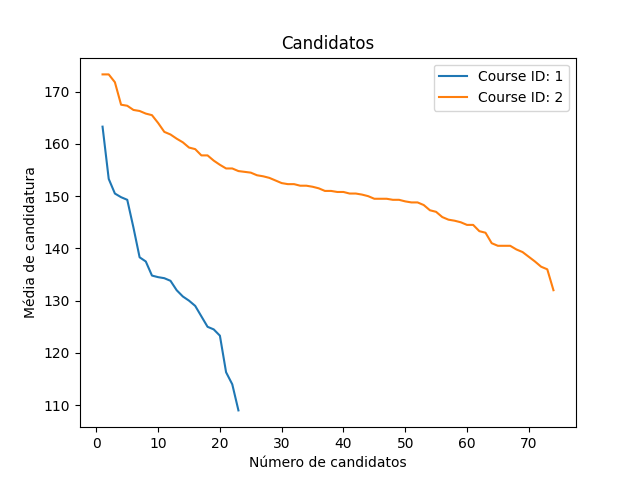
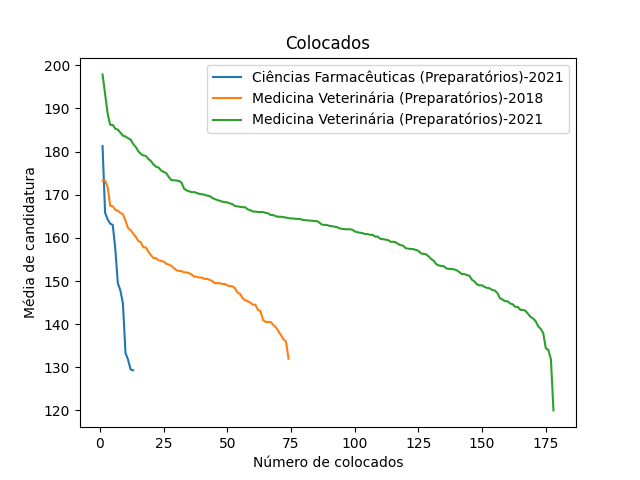
Fim

diff --git a/static/home.css b/static/home.css
@@ -1,0 +1,56 @@
+/* Apply some basic styling to the body */
+body {
+    font-family: Arial, sans-serif;
+    margin: 0;
+    padding: 20px;
+    background-color: #f0f0f0;
+  }
+  
+  /* Style the buttons */
+  button {
+    background-color: #4CAF50; /* Green */
+    border: none;
+    color: white;
+    padding: 10px 20px;
+    text-align: center;
+    text-decoration: none;
+    display: inline-block;
+    font-size: 16px;
+    margin: 10px;
+    cursor: pointer;
+    transition-duration: 0.4s;
+    border-radius: 5px;
+  }
+  
+  /* Change the background color and cursor on hover */
+  button:hover {
+    background-color: #45a049; /* Darker green */
+    cursor: pointer;
+  }
+  
+  /* Apply some basic styling to the links within the buttons */
+  button a {
+    color: white;
+    text-decoration: none;
+  }
+  
+  /* Adjust the layout of the buttons */
+  #button1 {
+    margin-right: 20px;
+  }
+  
+  /* Center the buttons */
+  body {
+    display: flex;
+    justify-content: center;
+    align-items: center;
+    height: 100vh;
+  }
+  
+  /* Adjust the width of the buttons on smaller screens */
+  @media (max-width: 768px) {
+    button {
+      width: 100%;
+    }
+  }
+  

diff --git a/static/display.css b/static/display.css
@@ -1,24 +1,44 @@
-body {
-    font-family: Arial, sans-serif;
-  }
-  
-  .container {
-    max-width: 600px;
-    margin: 0 auto;
-    padding: 20px;
-  }
-  
-  h1 {
-    text-align: center;
-  }
-  
-  form {
-    margin-top: 20px;
-  }
-  
-  input[type="submit"] {
-    display: block;
-    margin: 20px auto;
-  }
-  
-  
+/* display.css */
+
+/* Styles for the heading */
+h1 {
+  color: #333;
+  font-size: 24px;
+  margin-bottom: 20px;
+}
+
+/* Styles for the checkboxes and labels */
+input[type="checkbox"] {
+  margin-right: 5px;
+}
+
+label {
+  color: #666;
+  font-size: 16px;
+}
+
+/* Styles for the form */
+form {
+  margin-top: 20px;
+}
+
+/* Styles for the submit button */
+input[type="submit"] {
+  background-color: #4CAF50; /* Green */
+  border: none;
+  color: white;
+  padding: 10px 20px;
+  text-align: center;
+  text-decoration: none;
+  display: inline-block;
+  font-size: 16px;
+  margin: 10px;
+  cursor: pointer;
+  transition-duration: 0.4s;
+  border-radius: 5px;
+}
+
+input[type="submit"]:hover {    
+  background-color: #45a049; /* Darker green */
+  cursor: pointer;
+}

diff --git a/templates/display_candidatos.html b/templates/display_candidatos.html
@@ -32,13 +32,14 @@
     <h1>Seleciona o(s) cursos(s)</h1>
     
     <form action="{{ url_for('candidatos_graph') }}" method="POST">
+        
+        <input type="submit" value="Gerar Gráfico">
+        <br><br>
         {% for row in data %}
             <input type="checkbox" name="courses" value="{{ row[3] }}" id="{{ row[3] }}">
-            <label for="{{ row[3] }}">{{ row[0] }} - {{ row[1] }} - {{ row[2] }}</label>
+            <label for="{{ row[3] }}">{{ row[4] }} - {{ row[1] }} - {{ row[2] }}</label>
             <br>
         {% endfor %}
-        <br>
-        <input type="submit" value="Gerar Gráfico">
     </form>
 </body>
 </html>

diff --git a/templates/display_colocados.html b/templates/display_colocados.html
@@ -32,13 +32,13 @@
     <h1>Seleciona o(s) cursos(s)</h1>
     
     <form action="{{ url_for('colocados_graph') }}" method="POST">
+        <input type="submit" value="Gerar Gráfico">
+        <br><br>
         {% for row in data %}
             <input type="checkbox" name="courses" value="{{ row[3] }}" id="{{ row[3] }}">
-            <label for="{{ row[3] }}">{{ row[0] }} - {{ row[1] }} - {{ row[2] }}</label>
+            <label for="{{ row[3] }}">{{ row[4] }} - {{ row[1] }} - {{ row[2] }}</label>
             <br>
         {% endfor %}
-        <br>
-        <input type="submit" value="Gerar Gráfico">
     </form>
 </body>
 </html>

diff --git a/templates/home.html b/templates/home.html
@@ -1,7 +1,8 @@
 <!DOCTYPE html>
 <html>
 <head>
-    <title>Button Example</title>
+    <title>Escolha das listas</title>
+    <link rel="stylesheet" href="{{ url_for('static', filename='home.css') }}">
 </head>
 <body>
     <button onclick="window.location.href='/candidatos'" id="button1">Lista de Candidados</button>

diff --git a/graphs.py b/graphs.py
@@ -2,12 +2,16 @@ import matplotlib.pyplot as plt
 
 
 def plot_candidatos(conn, cursor, course_id_list, save_filename):
-    # Create a new figure
     plt.figure()
 
     # Iterate over the selected courses
     for course_id in course_id_list:
-        query = "SELECT id, media, curso FROM candidatura WHERE curso = ?"
+        query = """
+        SELECT c.id, c.media, cu.nome, cu.ano
+        FROM Candidatura c
+        INNER JOIN Curso cu ON c.curso = cu.id
+        WHERE c.curso = ?
+        """
         cursor.execute(query, (course_id,))
 
         # Initialize lists to store the x and y values
@@ -18,28 +22,34 @@ def plot_candidatos(conn, cursor, course_id_list, save_filename):
         for row in cursor:
             x = row[0]
             y = float(row[1])
-
+            course_name = row[2]
+            course_year= row[3]
             x_values.append(x)
             y_values.append(y)
 
-        # Plot the data for the current course
-        plt.plot(x_values, y_values, label=f'Course ID: {course_id}')
+        # Plot the data for the current course with the course name as the label
+    
+        plt.plot(x_values, y_values, label=course_name + "-" + str(course_year))
 
     plt.xlabel("Número de candidatos")
     plt.ylabel("Média de candidatura")
-    plt.title("Candidatos")
+    plt.title("Candidatos em 1ª opção")
     plt.legend()
     plt.savefig(save_filename)
     plt.close()
 
 
 def plot_colocados(conn, cursor, course_id_list, save_filename):
-    # Create a new figure
     plt.figure()
 
     # Iterate over the selected courses
     for course_id in course_id_list:
-        query = "SELECT Candidatura.id, Candidatura.media, Candidatura.curso FROM Colocado JOIN Candidatura ON Colocado.nome = Candidatura.nome AND candidatura.curso = ?"
+        query = """
+        SELECT c.id, c.media, cu.nome, cu.ano
+        FROM Candidatura c
+        INNER JOIN Curso cu ON c.curso = cu.id
+        WHERE c.curso = ?
+        """
         cursor.execute(query, (course_id,))
 
         # Initialize lists to store the x and y values
@@ -50,14 +60,15 @@ def plot_colocados(conn, cursor, course_id_list, save_filename):
         for row in cursor:
             x = row[0]
             y = float(row[1])
-
+            course_name = row[2]
+            course_year= row[3]
             x_values.append(x)
             y_values.append(y)
 
-        # Plot the data for the current course
-        plt.plot(x_values, y_values, label=f'Course ID: {course_id}')
-
-    plt.xlabel("Número de candidatos")
+        # Plot the data for the current course with the course name as the label
+    
+        plt.plot(x_values, y_values, label=course_name + "-" + str(course_year))
+    plt.xlabel("Número de colocados")
     plt.ylabel("Média de candidatura")
     plt.title("Colocados")
     plt.legend()

diff --git a/app.py b/app.py
@@ -20,7 +20,7 @@ def candidatos():
     # Connect to the database and retrieve data from the 'curso' table
     conn = sqlite3.connect('db/database.db')
     cursor = conn.cursor()
-    cursor.execute("SELECT c.instituicao, c.ano, c.nome, c.id FROM Curso c WHERE c.id IN (SELECT curso FROM Candidatura)")
+    cursor.execute("SELECT c.instituicao, c.ano, c.nome, c.id ,i.nome FROM Curso c, Instituicao i WHERE c.id IN (SELECT curso FROM Candidatura) AND i.codigo==c.instituicao order by c.instituicao, c.nome,c.ano")
     data = cursor.fetchall()
     cursor.close()
     conn.close()
@@ -42,7 +42,7 @@ def colocados():
     # Connect to the database and retrieve data from the 'curso' table
     conn = sqlite3.connect('db/database.db')
     cursor = conn.cursor()
-    cursor.execute("SELECT c.instituicao, c.ano, c.nome, c.id FROM Curso c WHERE c.id IN (SELECT curso FROM Candidatura)")
+    cursor.execute("SELECT c.instituicao, c.ano, c.nome, c.id ,i.nome FROM Curso c, Instituicao i WHERE c.id IN (SELECT curso FROM Candidatura) AND i.codigo==c.instituicao order by c.instituicao, c.nome,c.ano")
     data = cursor.fetchall()
     cursor.close()
     conn.close()
